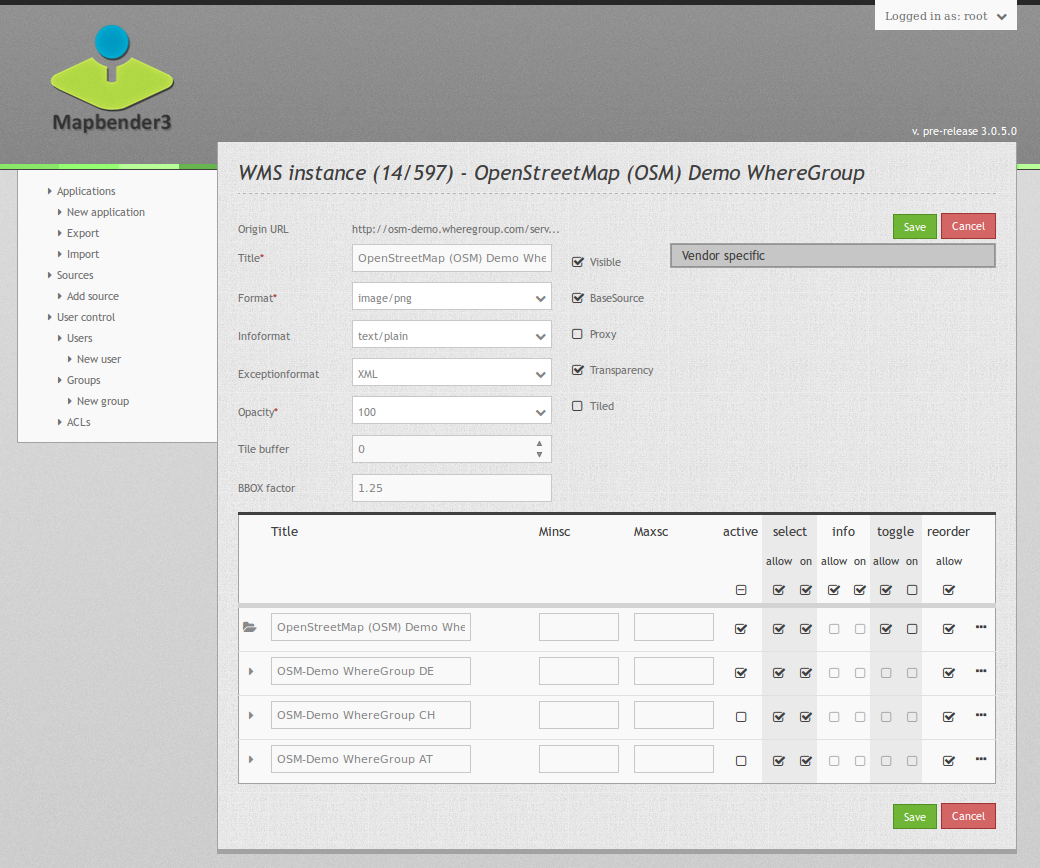
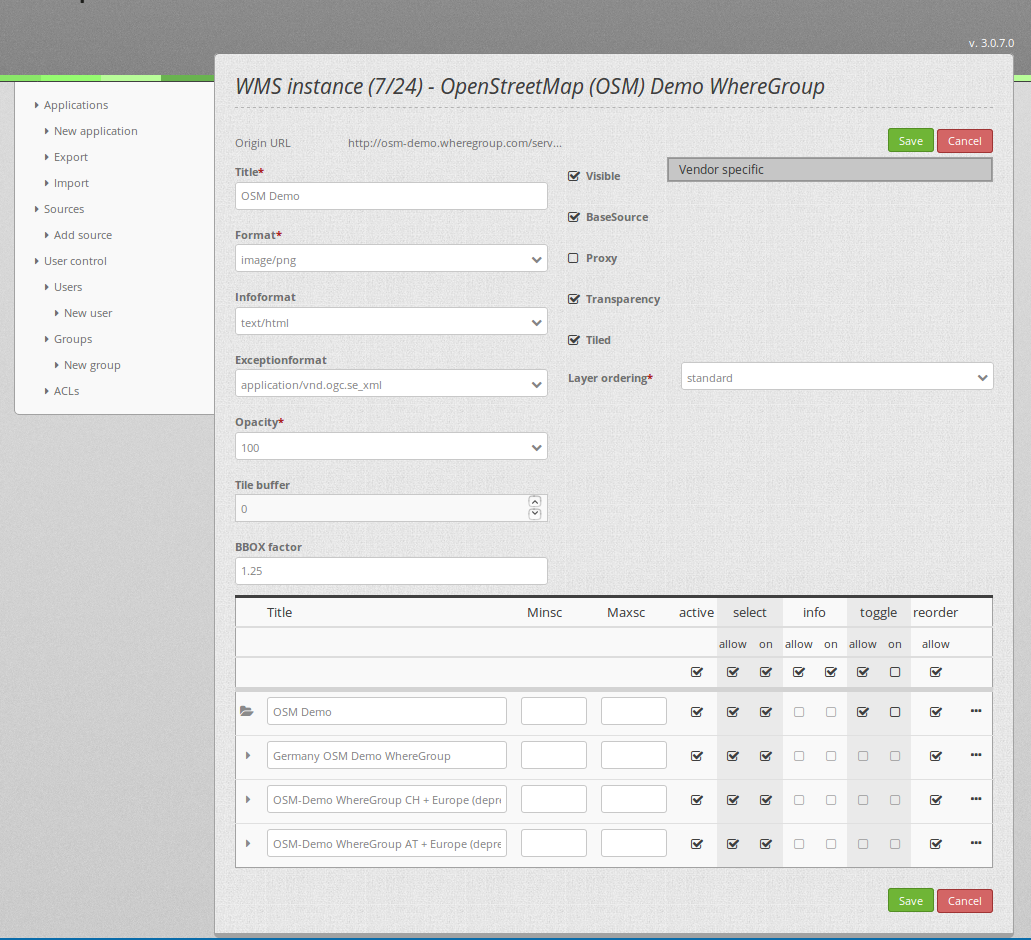
Add Layerset information in general and layer-ordering im speziellen

Changed region(s): [[0.0, 0.0, 1.0, 1.0], [0.6518, 0.3733, 0.9932, 0.4355], [0.5587, 0.4666, 0.5897, 0.4977]]

diff --git a/de/functions/backend/layerset.rst b/de/functions/backend/layerset.rst
@@ -1,29 +1,120 @@
-.. _layerset:
+.. _layerset-en:
 
-Layerset
-========
+Layersets und Layerset-Instanzen
+================================
 
 Ein Layerset ist ein logischer Container, die einen oder mehrere Layerset-Instanzen (WMS Dienste) beinhalten kann. Ein typisches Beispiel sind die Unterscheidung in den Layerset "main" für die Hauptkarte und "overview" für die Übersichtskarte. Sie können weitere Layersets definieren, die optional in der Karte dargestellt werden oder auch im Layertree als eigener Ordner erscheinen (thematische Layer).
 
 .. image:: ../../../figures/mapbender3_service_edit.png
            :scale: 80
 
-Layerset-Instances enthalten die Optionen, wie ein WMS angesprochen werden kann: das Bildformat, das Infoformat, Exceptionformat, die Maßstäbe für die einzelnen Layer und vieles mehr.
 
-.. image:: ../../../figures/mapbender3_wms_application_settings.png
+Layerset-Instanzen
+------------------
+
+Layerset-Instanzen enthalten die Optionen, wie ein WMS angesprochen werden kann: das Bildformat, das Infoformat, Exceptionformat, die Maßstäbe für die einzelnen Layer und vieles mehr.
+
+.. image:: ../../../figures/de/mapbender3_wms_application_settings.png
            :scale: 80
-      
+
+Sobald ein WMS Dienst in einen Layerset eingebunden wird, ist er als Layerset-Instanz mit der Anwendung verknüpft.
+
+Der Screenshot zeigt die Instanz ``7/24`` basierend auf einem WMS-Dienst. Die zugehörige Datenquelle ist die Nr. 7, die Layerset-Instanz selbst hat die Laufnummer 24. Sie basiert auf dem OSM-Dienst der WhereGroup und kann in diesem Dialog für die Anwendung konfiguriert werden.
+
+**Die Eigenschaften aus den WMS-Capabilities:**
+
+- **Title:** Der Titel der Instanz, der in der Liste der Layersets und ihrer Instanzen angezeigt wird.
+
+- **Format:** Das Bildformat, mit dem die Kartenbilder über den GetMap Request in der Anwendung abgerufen werden sollen. Für Rasterkarten und Luftbilder empfiehlt sich das JPG Format, für z.B. Straßenkarten das PNG Format. Im Zweifel: PNG.
+
+- **Infoformat:** Das Format, in denen die GetFeatureInfo Anfragen an den WMS abgeschickt werden soll. Im Zweifel: text/html oder ein analoges HTML-Format, was dann in den Dialog des `FeatureInfo <../basic/feature_info>`_ verwendet werden kann.
+
+- **Exceptionformat:** wählen Sie das Format für Fehlermeldungen aus dem OGC Exception Formaten, die der WMS anbietet.
+
+**Die Eigenschaften für die Anwendung**
+
+- **Opacity:** wählen Sie die Deckkraft des Dienstes in Prozent. Dieser Wert wird dann auch für den Benutzer im `Layertree <../basic/layertree>`_ gesetzt, wenn dort im Menü auch die "Opacity" aktiviert ist.
+
+- **Kachel-Puffer (Tile buffer):** Dieser Parameter gilt für Dienste, die gekachelt angefordert werden und gibt an, ob weitere umgebende Kacheln abgerufen werden sollen. Damit sind diese bei einer Pan-Bewegung schon heruntergeladen und sichtbar. Je höher der Wert, desto mehr umgebende Kacheln werden abgerufen. Default: 0.
+
+- **BBOX-Faktor:** Dieser Parameter gilt für Dienste, die nicht-gekachelt angefordert werden. Hier kann man angeben, wie groß das zurückgegebene Bild sein soll. Ein Wert größer 1 wird ein größeres Kartenbild anfordern. Default: 1.25 und kann gerne auf 1 gesetzt werden.
+
+- **Sichtbarkeit:** Der Dienst kann mit dieser Schaltfläche sichtbar geschaltet werden.
+
+- **BaseSource:** Der Dienst soll als BaseSource (Basisdienst) behandelt werden. Dies hat Auswirkungen auf den `BaseSourceSwitcher <../basic/basesourceswitcher>`_, der nur BaseSources anzeigen soll und auf den `Layertree <../basic/layertree>`_, in dem diese BaseSources dann auch ausgeblendet werden können. Siehe auch die `Hinweise <hinweise-layersets_>`_ weiter unten.
+
+- **Proxy:** Bei Aktivierung wird der Dienst über Mapbender als Proxy angefordert. Siehe die `Hinweise <hinweise-layersets_>`_ weiter unten.
+
+- **Transparenz:** Ist dieser Schalter aktiviert (und das ist er standardmäßig) wird der Dienst mit transparenten Hintergrund angefordert. Also im WMS GetMap-Request mit dem Parameter ``TRANSPARENT=TRUE``.
+
+- **Gekachelt (Tiled):** Der Dienst wird in Kacheln angefordert. Der Standard ist nicht gekachelt. Siehe die folgenden `Hinweise <hinweise-layersets_>`_.
+
+
+**Layer-Reihenfolge:**
+
+Es gibt zwei Möglichkeiten, wie die Layerreihenfolge dem Layerbaum übergeben wird:
+
+- **Standard**
+- **QGIS Style**
+
+Diese Unterscheidung hat ihre Ursprünge in der Art und Weise wie WMS-Dienste und Capabilities-Dokumente aufgebaut sind.
+
+Die `OGC Referenzimplementierung eines WMS <http://www.opengeospatial.org/standards/wms/quickstart>`_ beschreibt den Aufbau eines Beispiel WMS unter: `http://metaspatial.net/cgi-bin/ogc-wms.xml?REQUEST=GetCapabilities&SERVICE=WMS&VERSION=1.3 <http://metaspatial.net/cgi-bin/ogc-wms.xml?REQUEST=GetCapabilities&SERVICE=WMS&VERSION=1.3>`_
+
+Dieser WMS zeigt einige Punkt, Linien und Flächenobjekte und Rasterbilder an. Das Capabilities Dokument listet dabei die Bilddaten (z.B. DTM) weiter oben als die Punkte (z.B. osm_points als vorletzter Layer). Dieses Prinzip übernimmt der Mapbender sowohl in den DataSources, wo der Dienst in Mapbender eingeladen und registriert wird als auch in den Layerset-Instanzen.
+
+Im Layerbaum dreht sich dann aber die Reihenfolge um, da aus unserer Erfahrung der Benutzer es gewohnt ist, dass der Layer, der im Layerbaum weiter oben steht auch als oberster Layer gezeichnet wird. Diese Erfahrung hat ein Benutzer auch, wenn er ein Desktop-GIS nutzt. Punkte sind dann im Layerbaum weiter oben und Rasterdaten weiter unten.
+
+Der `QGIS Server <https://www.qgis.org/>`_ verhält sich hier aber anders. Einen WMS kann man mithilfe der QGIS-Projektdatei sehr einfach auf einen QGIS Server deployen und die Reihenfolge der Layer in den WMS Capabilities ist dann gleich der Reihenfolge, die man im eigenen QGIS-Projekt genutzt hat. Also generell: Punkte oben, weiter darunter die Linien, dann zum Schluß die Polygondaten oder Rasterbilder. QGIS und QGIS Server sind dabei nicht die einzigen Programme, die das so machen, aber die besten. Für den GetMap Aufruf ist das dann wieder irrelevant, da dort die Art und Weise der Aufrufe und wie diese dann an den Klienten zurückgesendet werden in der WMS-Spezifikation geklärt ist.
+
+Die folgende Tabelle fasst das Verhalten nochmal zusammen:
+
++----------------------------------------+----------------------+------------------------+
+|                                        | layer order standard | layer order QGIS style |
++========================================+======================+========================+
+| WMS Capabilities (from top to bottom)  | polygon, line, point | point, line, polygon   |
++----------------------------------------+----------------------+------------------------+
+| Layerset-Instance (from top to bottom) | polygon, line, point | point, line, polygon   |
++----------------------------------------+----------------------+------------------------+
+| Layertree  (from top to bottom)        | point, line, polygon | point, line, polygon   |
++----------------------------------------+----------------------+------------------------+
+
+Damit kann Mapbender auf die unterschiedlichen Art und Weisen reagieren, wie ein WMS Capabilities Dokument aufgebaut hat, indem einfach die Reihenfolge in dem Layerbaum angepasst wird.
+
+
+.. _hinweise-layersets:
+
+Hinweise zu den Auswirkungen der einzelnen Konfigurationen
+----------------------------------------------------------
+
+**Basesources:**
+
+Es gibt viele Möglichkeiten den Layertree zu füllen und mit Basisdiensten zu arbeiten:
+- Z.B. durch das Verstecken im Layerbaum und das Nutzen des `BaseSourceSwitcher <../basic/basesourceswitcher>`_.
+- Oder auch mit den Möglichkeiten des `thematischen Layerbaums <../basic/layertree>`_ zu arbeiten, verschiedene Layersets anlegen und die Basisdienste und thematische Diensten dort verteilen und im Layerbaum unterscheiden.
+
+Für welche Möglichkeit Sie sich entscheiden, hängt ganz von Ihren Vorlieben ab.
+
+**Proxy:**
+
+Wozu dient dieser Schalter? Die Proxynutzung macht dann Sinn, wenn man vermeiden möchte, dass der Webbrowser als Klient direkt auf den Dienst zugreift, wie dies durch OpenLayer ja standardmäßig passiert. Ist dieser Schalter aktiviert, greift der Mapbender mit seiner URL auf den Dienst zu, verarbeitet die Bilder und stellt sie in der Karte dar. D.h. man kann über Firewalls sehr leicht einen über das Netzwerk-geschützten Dienst anbieten, der nur von dem Webserver angesprochen werden darf, auf dem der Mapbender läuft.
+
+
+**Kachelung, Kartengröße und Performance:**
+
+Der Parameter "Gekachelt" wird benutzt, um das Kartenbild in einzelnen Kacheln anzufordern und nicht als ganzes Bild. Das sollte man generell einschalten, wenn man einen `Mapproxy <https://mapproxy.de/>`_ eingebunden hat, der den Dienst gekachelt bereitstellt. Es macht aber auch für normale, ungekachelte Dienste Sinn, da die gefühlte Wartezeit beim Nutzer geringer ist: Das Kartenbild erscheint, obwohl noch nicht alle Kacheln abgerufen worden sind.
+
+Man muss dabei aber beachten: Die Anzahl der Anfragen an einen WMS vergrößert sich rapide: Je nach Bildschirm-Auflösung und eingestellter Kachelgröße im `Kartenelement <../basic/map>`_ werden statt einer viele Anfragen abgeschickt. Die zurückgelieferten Bilder sind zwar nicht besonders groß (normalerweise nimmt man Kachelgrößen von 256x256 oder 512x512 Pixel), aber zahlreich. Auch in Hinblick auf die Verwendung des **Kachel-Puffers**. Es ist also eine Abwägung und eine Fall- zu Fall-Unterscheidung, wie man den Dienst ansprechen möchte. Die Performance kann auch über eigene Maßstabsangaben der Layer gesteigert werden, wenn der Dienst diese etwas zu locker vorgegeben hat.
+
+Es gibt des Weiteren noch hier und da WMS-Dienste, die nur eine maximale Kartenbildgröße unterstützen und mit den hohen Auflösungen die Mapbender anfragen kann nicht zurechtkommen. Das Fullscreen-Template kann auf die maximale Bildschirmbreite gezogen werden und das angeforderte Kartenbild ist dann in etwa der Breite und Höhe des sichtbaren Browserfensters.
+
 
 
 Weitere Informationen
 ---------------------
 
-* Information zur Benutzung von Layersets finden Sie in der `Quickstart Dokumentation <../../quickstart.html#konfiguration-von-diensten>`_
+* Information zur Benutzung von Layersets finden Sie in auch im `Quickstart <../../quickstart#konfiguration-von-diensten>`_
 
-* Die Bedeutung der Layersets für die Anzeige im Layertree ist im Abschnitt zu den Thematischen Layern in der `Layertree-Dokumentation <../basic/layertree.html>`_ beschrieben.
+* Die Bedeutung der Layersets für die Anzeige im Layertree ist im Abschnitt zu den Thematischen Layern in der `Layertree-Dokumentation <../basic/layertree>`_ beschrieben.
 
-* Ebenso können einzelne Layersets in der `Karte <../basic/map.html>`_ an- und abgeschaltet werden.
-
-
-
-
+* Ebenso können einzelne Layersets in der `Karte <../basic/map>`_ an- und abgeschaltet werden.

diff --git a/en/functions/backend/layerset.rst b/en/functions/backend/layerset.rst
@@ -1,4 +1,4 @@
-.. _layerset:
+.. _layerset-de:
 
 Layerset
 ========
@@ -8,17 +8,111 @@ Layersets are logical containers, that can contain one or more layerset-instance
 .. image:: ../../../figures/mapbender3_service_edit.png
            :scale: 80
 
-Layer-instances contain the options how a WMS is called: image-format, info-format, exception-format, scales for the different layers and many more.
+
+Layerset-instances
+------------------
+
+Layerset-instances contain the options how a WMS is called: image-format, info-format, exception-format, scales for the different layers and many more.
 
 .. image:: ../../../figures/mapbender3_wms_application_settings.png
            :scale: 80
+
+As soon a WMS service is integrated in a layerset, it is linked as a layerset-instance with the application.
+
+The screenshot above shows the instance ``7/24`` based on a WMS service. The associated data source is number 7, the layerers instance itself has the number 24. It is based on the WhereGroup OSM service and can be configured for the application in this dialog.
+
+**The properties of the WMS-Capabilities:**
+
+- **Title:** Title of the instance that is shown on the list of layersets and their instances.
+
+- **Format:** The image-format which is used to get the map-images for the application via the GetMap request. For raster-data and aerial imagery the JPG format is recommended, in case of street-maps the PNG format should be preferred. If you are in doubt: PNG.
+
+- **Infoformat:** The format which is used for the GetFeatureInfo requests to the WMS. In doubt: text/html or an analog HTML-format which can be used in the Dialog of the `FeatureInfo <../basic/feature_info>`_ element.
+
+- **Exceptionformat:** The format for error-messages that are returned by the WMS service.
+
+**The properties for the application**
+
+- **Opacity:** Choose the Opacity in percent. This value can be changed by the user in the  `Layertree <../basic/layertree>`_ , if it's made available in the corresponding menu.
+
+- **Tile buffer:** This parameter applies to services that are tiled and specifies whether to retrieve more surrounding tiles. With that they are already downloaded and visible during a pan movement. The higher the value, the more surrounding tiles are retrieved. Default: 0.
+
+- **BBOX-Factor:** This parameter applies to services that are not tiled. You can specify how big the returned image should be. A value greater than 1 will request a larger map image. Default: 1.25 and you are free to set it to 1.
+
+- **Visible:** The service can be set visible with this option.
+
+- **BaseSource:** The service should be treated as BaseSource. This affects the `BaseSourceSwitcher <../basic/basesourceswitcher>`_, which should only display BaseSources, and the `Layertree <../basic/layerertree>`_, where these BaseSources can be hidden. See also the `hints <hints-layersets_>`_ below.
+
+- **Proxy:** If activated, the service will be requested via a proxy in Mapbender. See the `hints <hints-layersets_>`_ below.
+
+- **Transparency:** If this switch is enabled (that is the default), the service is requested with a transparent background. So in the WMS GetMap request with the parameter ``TRANSPARENT=TRUE``.
+
+- **Tiled:** The service is requested in tiles. The standard is not tiled. See the following `hints <hints-layersets_>`_.
+
+
+**Layer-Reihenfolge:**
+
+There are two ways to pass the layer order to the layer tree:
+
+- **Standard**
+- **QGIS Style**
+
+This distinction has its origins in the way WMS services and capabilities documents are built.
+
+The `OGC reference-implementierung of a WMS <http://www.opengeospatial.org/standards/wms/quickstart>`_ describes the structure of an example WMS at: `http://metaspatial.net/cgi-bin/ogc-wms.xml?REQUEST=GetCapabilities&SERVICE=WMS&VERSION=1.3 <http://metaspatial.net/cgi-bin/ogc-wms.xml?REQUEST=GetCapabilities&SERVICE=WMS&VERSION=1.3>`_
+
+This WMS displays some point, line and polygon objects and raster images. The Capabilities document lists the image data (e.g., DTM) more at the top of the document than the points (e.g., osm_points as the penultimate layer). Mapbender takes this approach both in the DataSources, where the service is loaded and registered in Mapbender, as well as in the Layerset instances.
+
+In the layer tree, however, the order revolves, because from our experience the user is used to the fact that the layer that is listed higher up in the layer-tree is also drawn as the top layer. A user also has this experience when using a desktop GIS. Points are then in the layer tree above raster data, which is usually placed below.
+
+The `QGIS Server <https://www.qgis.org/>` _ behaves differently here. A WMS can be easily deployed to a QGIS server using the QGIS project file, and the order of the layers in the WMS Capabilities is then the same as the order used in your own QGIS project. So in general: points above, further below the lines, then finally the polygon data or raster images. QGIS and QGIS servers are not the only programs that do that, but the best of these. This whole thing is again irrelevant for the GetMap call, because the order of the requests and how they are delivered to the server and back is solved in the WMS specification.
+
+The following table summarizes the behavior again:
+
++----------------------------------------+----------------------+------------------------+
+|                                        | layer order standard | layer order QGIS style |
++========================================+======================+========================+
+| WMS Capabilities (from top to bottom)  | polygon, line, point | point, line, polygon   |
++----------------------------------------+----------------------+------------------------+
+| Layerset-Instance (from top to bottom) | polygon, line, point | point, line, polygon   |
++----------------------------------------+----------------------+------------------------+
+| Layertree  (from top to bottom)        | point, line, polygon | point, line, polygon   |
++----------------------------------------+----------------------+------------------------+
+
+This allows Mapbender to respond in the different ways that a WMS Capabilities document can be built up by simply adjusting the order in the layer tree.
+
+
+.. _hints-layersets:
+
+Hinweise zu den Auswirkungen der einzelnen Konfigurationen
+----------------------------------------------------------
+
+**Basesources:**
+
+There are many ways to fill the Layertree and work with basic services:
+- e.g. by hiding them in the layer tree and using the `BaseSourceSwitcher <../basic/basesourceswitcher>`_.
+- Or to work with the possibilities of the `thematic layer tree <../basic/layerertree>`_, to create different layersets and distribute the basic services and thematic services in them to place them in the layer tree.
+
+Which option you choose depends entirely on your preferences.
+
+**Proxy:**
+
+What is this switch for? The use of the proxy makes sense, if you want to avoid that the web browser accesses the service as a client directly, which is the default for OpenLayers based applications. If this switch is activated, Mapbender accesses the service from its own URL, processes the images and displays them on the map. With that it is easy to provide a network-protected service secured by firewalls that can only be accessed by the web server on which Mapbender is running.
+
+**Tiling, map-size and performance:**
+
+The "Tiled" parameter is used to request the map image in individual tiles rather than as a whole image. This should be turned on in general, if you use `Mapproxy <https://mapproxy.de/>`_ to provide a tiled service. But it also makes sense for normal, un-tiled services, since the perceived waiting time for the user gets lower: The map image appears, although not all tiles have been retrieved yet.
+
+But you have to keep in mind: The number of requests to a WMS increases rapidly: Depending on the screen resolution and the set tile size in the `Map element <../basic/map>`_ many requests are sent to the server. Although the returned images are not very large (usually you set tile sizes of 256x256 or 512x512 pixels), but large in numbers. This is also valid in regard to the **tile buffer**. So it's a trade-off and a case-by-case distinction how to address the service. The performance can also be increased by setting the scales of a layer in the layerset-instance.
+
+There exist also some WMS services that support only a maximum image size that cannot be used with the high resolutions request Mapbender can call. The Fullscreen template can be sized to the maximum screen width and the requested map image is then approximately the width and height of the visible browser window.
 
 
 Further information
 -------------------
 
-* You can find information about using layersets in the `Quickstart documentation <../../quickstart.html#configure-your-wms>`_.
+* You can find information about using layersets in the `Quickstart <../../quickstart#configure-your-wms>`_.
 
-* The relevance of layersets for the display in the layertree is described in the Thematic Layers section of the `layertree documentation <../basic/layertree.html>`_
+* The relevance of layersets for the display in the layertree is described in the Thematic Layers section of the `layertree documentation <../basic/layertree>`_
 
-* Likewise layersets can be switched on or off in the `Map element <../basic/map.html>`_.
+* Likewise layersets can be switched on or off in the `Map element <../basic/map>`_.
